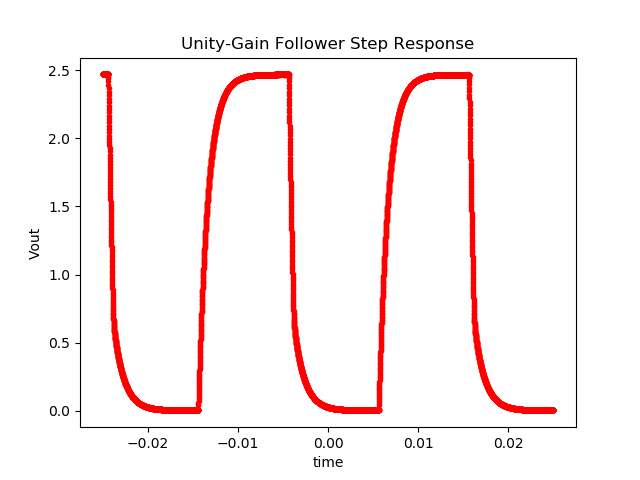
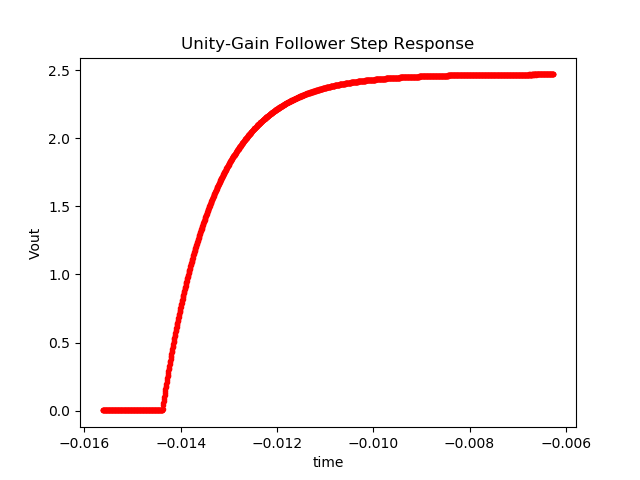
added rates

diff --git a/lab 9/Exp3BigWavePlot.py b/lab 9/Exp3BigWavePlot.py
@@ -20,7 +20,6 @@ with open('RunforLargeWaveLab9.csv', 'r') as csvfile:
             firstval = float(row[0])
             secondval = float(row[1])
             thirdval = float(row[2])
-            # print(firstval,"ee", secondval, thirdval)
             timeBig.append(firstval)
             VoutBig.append(thirdval)
 
@@ -28,11 +27,35 @@ with open('RunforLargeWaveLab9.csv', 'r') as csvfile:
 peaktopeak = max(VoutBig)-min(VoutBig)
 print(peaktopeak)
 
+VoutBigSub1 = VoutBig[0:1500]
+max = 0
+maxIn = 0
+i = 0
+timeStartDecend = 0
+timeEndDecend = 0
+
+for x in VoutBigSub1:
+    if(x > max):
+        max = x
+        maxin = i
+    i+=1
+
+timeStartDecend = -0.0243465
+timeEndDecend = -0.018695
+slewDownRate = timeStartDecend- timeEndDecend
+print(slewDownRate)
+
+timeStartAccend = -0.0143897
+timeEndAccend = -0.000624492
+slewUpRate = timeStartAccend- timeEndAccend
+print(slewUpRate)
+
 title = "Unity-Gain Follower Step Response"
 yLabel = "Vout"
 xLabel = "time"
-#
-Data1 = plt.plot(timeBig, VoutBig, 'ro', markersize=3)
+
+
+Data1 = plt.plot(timeBig[1500:3000], VoutBig[1500:3000], 'ro', markersize=3)
 # Data = plt.plot(linearvdm, (slope*linearvdm)+intercept, 'b', label="best fit line: y="+str(round(slope,5))+"x + " +str(round(intercept,5)))
 
 plt.xlabel(xLabel)

diff --git a/lab 9/Exp3SmallWavePlot.py b/lab 9/Exp3SmallWavePlot.py
@@ -23,20 +23,24 @@ with open('RunforShortWaveLab9.csv', 'r') as csvfile:
             # print(firstval,"ee", secondval, thirdval)
             timeSmall.append(firstval)
             VoutSmall.append(thirdval)
-#
-# slope, intercept, r_value, p_value, std_err = stats.linregress(linearvdm, linearvout)
-# linearvdm = np.array(linearvdm)
 
-# #
-# print(VoutBig[0])
-# print(timeBig)
-# Setting up plot
+
+timeStartDecend = -0.0243353
+timeEndDecend = -0.0238842
+slewDownRate = timeStartDecend- timeEndDecend
+print("Down Const: " , slewDownRate)
+
+timeStartAccend = -0.0233369
+timeEndAccend = -0.0226176
+slewUpRate = timeStartAccend- timeEndAccend
+print("Up Const: " , slewUpRate)
+
 title = "Unity-Gain Follower Step Response"
 yLabel = "Vout"
 xLabel = "time"
 #
 peaktopeak = max(VoutSmall)-min(VoutSmall)
-print(peaktopeak)
+print("Peak to Peak Amp: ", peaktopeak)
 
 Data1 = plt.plot(timeSmall[0:500], VoutSmall[0:500], 'ro', markersize=3)
 # Data = plt.plot(linearvdm, (slope*linearvdm)+intercept, 'b', label="best fit line: y="+str(round(slope,5))+"x + " +str(round(intercept,5)))
